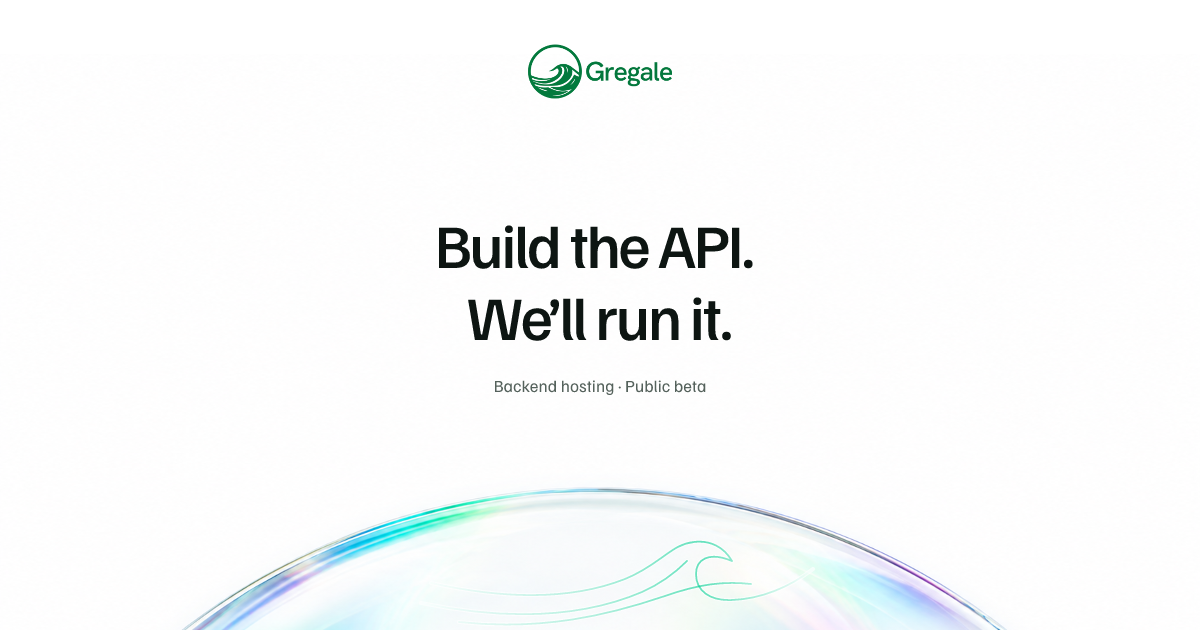
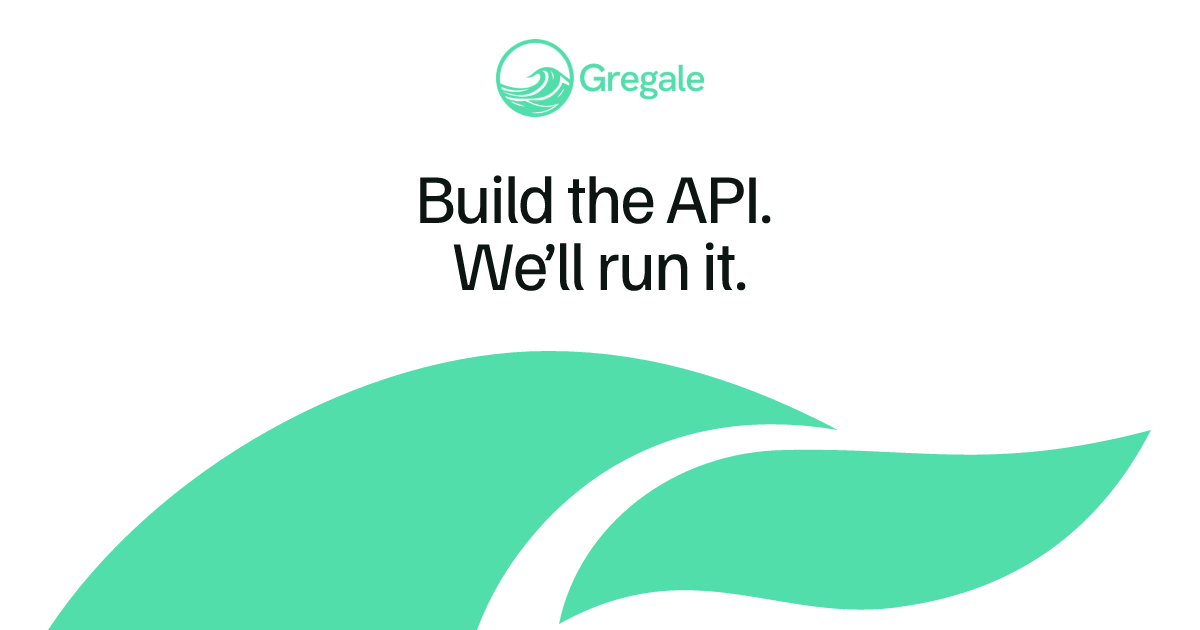
design: simplify social preview to cropped mint wind silhouette

Changed region(s): [[0.0308, 0.2714, 0.9558, 1.0], [0.4008, 0.0603, 0.5858, 0.181]]

diff --git a/README.md b/README.md
@@ -336,8 +336,8 @@ markup, `robots.txt`) works without it.
 ### og:image
 
 The 1200×630 social card is `public/og.png`. Run `npm run og` to rebuild it
-from the current logo, editable headline, and frozen glass artwork in
-`scripts/assets/og-glass.png`; its generation prompt is saved alongside it.
+from the current logo, editable headline, and cropped mint wind silhouette in
+`scripts/og-image.mjs`.
 The next build with `SITE_URL` set includes the image in Open Graph and X
 metadata. Commit the rebuilt PNG when changing the card.
 
